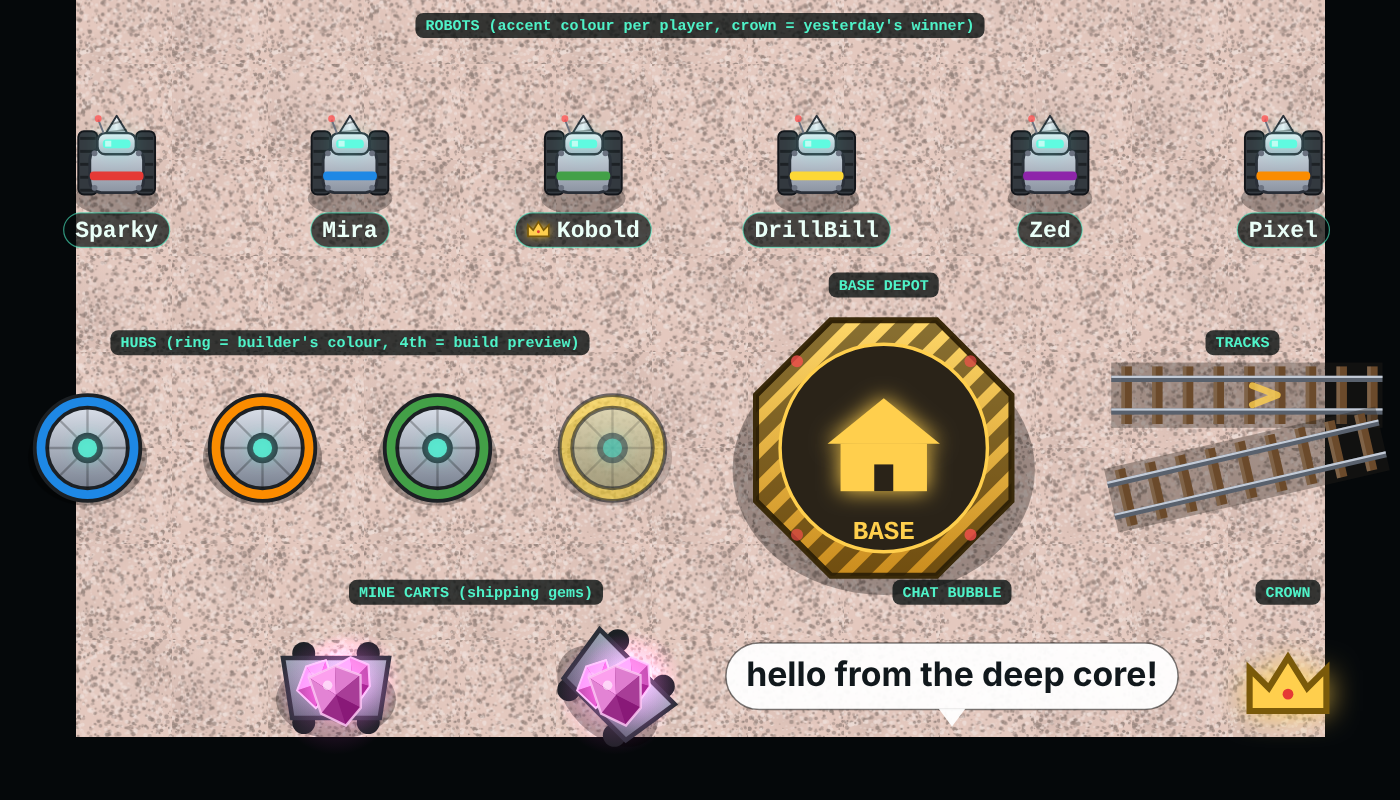
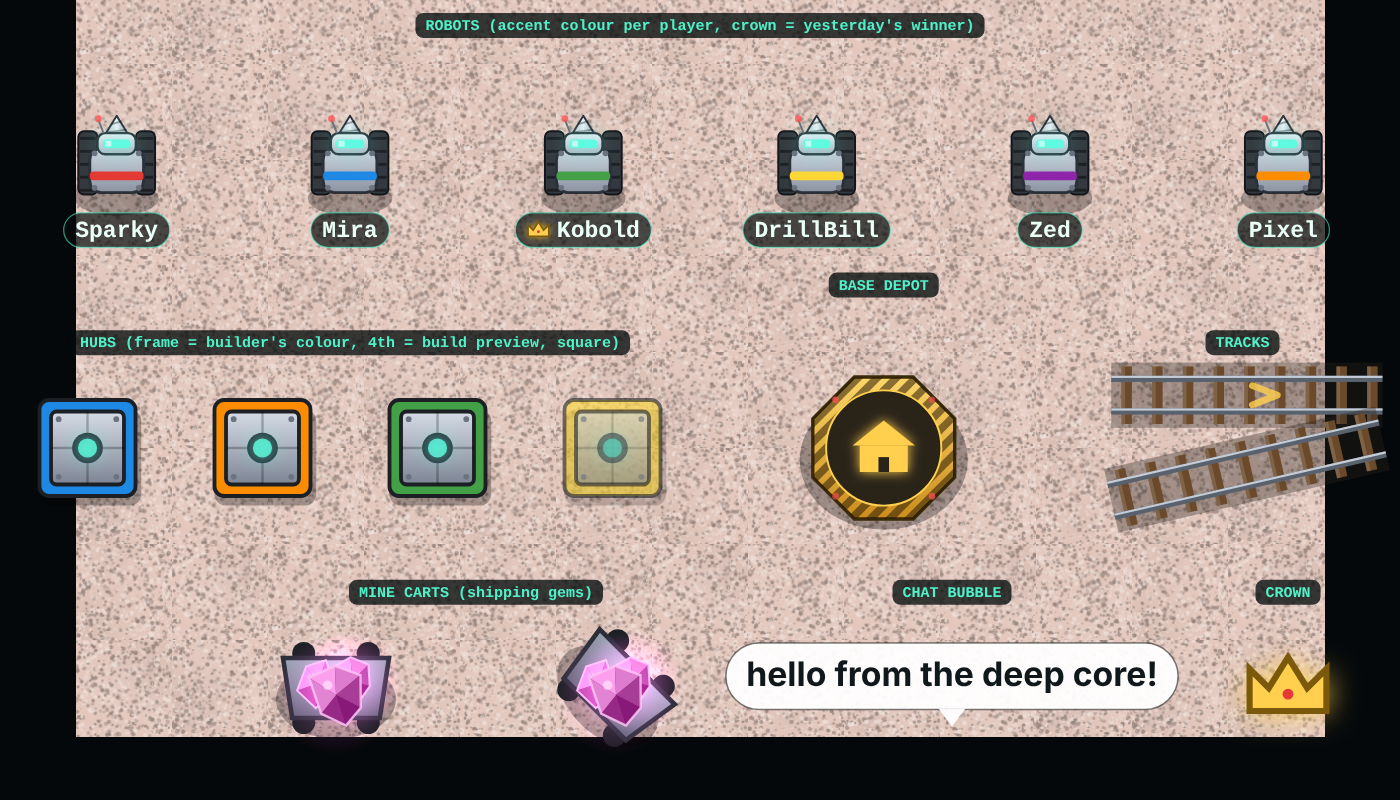
Mockups: half-size base without text, square hubs
Claude-Session: https://claude.ai/code/session_01DpdrSrH8qNgioHB6FWt1fL

Changed region(s): [[0.0, 0.4062, 0.4914, 0.6562], [0.5221, 0.375, 0.7371, 0.75]]

diff --git a/scripts/mockups/art.js b/scripts/mockups/art.js
@@ -48,26 +48,29 @@ const ART = (() => {
         c.restore();
     }
 
-    // Hub (player-built station): steel platform, ring in the builder's colour,
-    // and a blinking signal lamp. `tilt` is only used by the preview ghost.
+    // Hub (player-built station): square steel platform with a frame in the
+    // builder's colour and a blinking signal lamp. `ghost` = build preview.
     function hub(c, cx, cy, u, color, now, ghost) {
         c.save();
         c.translate(cx, cy);
         if (ghost) c.globalAlpha = 0.6;
         c.fillStyle = "rgba(0,0,0,0.30)";
-        c.beginPath(); c.ellipse(0, u * 0.1, u * 0.62, u * 0.5, 0, 0, TAU2); c.fill();
-        c.beginPath(); c.arc(0, 0, u * 0.55, 0, TAU2);               // outer ring (builder colour)
+        pill(c, -u * 0.5, -u * 0.4, u * 1.06, u * 1.0, u * 0.12); c.fill();
+        pill(c, -u * 0.5, -u * 0.5, u, u, u * 0.1);                  // frame (builder colour)
         c.fillStyle = color; c.fill();
         c.lineWidth = Math.max(1.5, u * 0.04); c.strokeStyle = "#1c2024"; c.stroke();
-        c.beginPath(); c.arc(0, 0, u * 0.42, 0, TAU2);               // steel deck
-        const g = c.createLinearGradient(0, -u * 0.4, 0, u * 0.4);
+        pill(c, -u * 0.38, -u * 0.38, u * 0.76, u * 0.76, u * 0.06); // steel deck
+        const g = c.createLinearGradient(0, -u * 0.38, 0, u * 0.38);
         g.addColorStop(0, "#d6dce6"); g.addColorStop(1, "#7d8594");
         c.fillStyle = g; c.fill(); c.stroke();
         c.strokeStyle = "rgba(0,0,0,0.25)"; c.lineWidth = Math.max(1, u * 0.025);
-        for (let i = 0; i < 4; i++) {                                // deck plating lines
-            const a = i * Math.PI / 4;
-            c.beginPath(); c.moveTo(Math.cos(a) * u * 0.42, Math.sin(a) * u * 0.42);
-            c.lineTo(-Math.cos(a) * u * 0.42, -Math.sin(a) * u * 0.42); c.stroke();
+        c.beginPath();                                               // deck plating lines
+        c.moveTo(-u * 0.38, 0); c.lineTo(u * 0.38, 0);
+        c.moveTo(0, -u * 0.38); c.lineTo(0, u * 0.38);
+        c.stroke();
+        c.fillStyle = "#6b7280";                                     // corner bolts
+        for (const [bx, by] of [[-1, -1], [1, -1], [-1, 1], [1, 1]]) {
+            c.beginPath(); c.arc(bx * u * 0.3, by * u * 0.3, u * 0.03, 0, TAU2); c.fill();
         }
         c.beginPath(); c.arc(0, 0, u * 0.16, 0, TAU2);               // lamp housing
         c.fillStyle = "#2a2f38"; c.fill();
@@ -80,6 +83,7 @@ const ART = (() => {
 
     // Base depot: big amber platform with the same house icon the radar uses.
     function base(c, cx, cy, u, now) {
+        u *= 0.5;                                                    // half-size depot
         c.save();
         c.translate(cx, cy);
         c.fillStyle = "rgba(0,0,0,0.32)";
@@ -111,9 +115,6 @@ const ART = (() => {
         c.closePath(); c.fill();
         c.shadowBlur = 0;
         c.fillStyle = "#2a2318"; c.fillRect(-s * 0.22, s * 0.38, s * 0.44, s * 0.62);
-        c.font = `bold ${u * 0.3}px "Courier New", monospace`;
-        c.textAlign = "center"; c.textBaseline = "middle";
-        c.fillStyle = "#ffcf4d"; c.fillText("BASE", 0, u * 0.98);
         const blink = 0.5 + 0.5 * Math.sin(now / 300);               // corner beacons
         for (let i = 0; i < 4; i++) {
             const a = Math.PI / 4 + i * Math.PI / 2;
